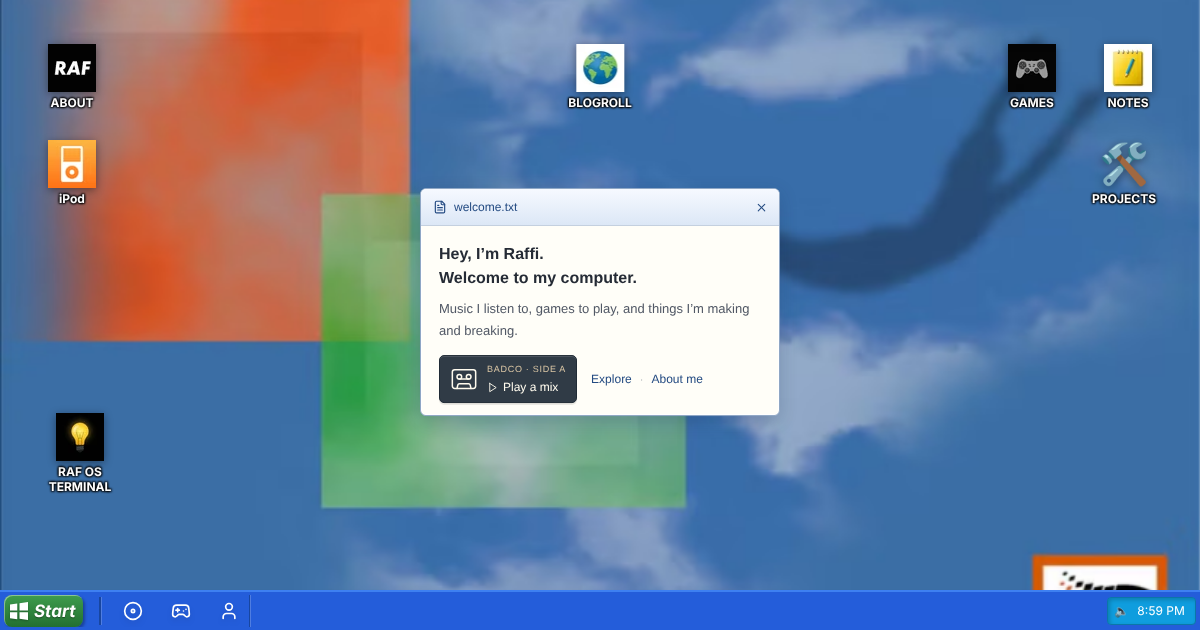
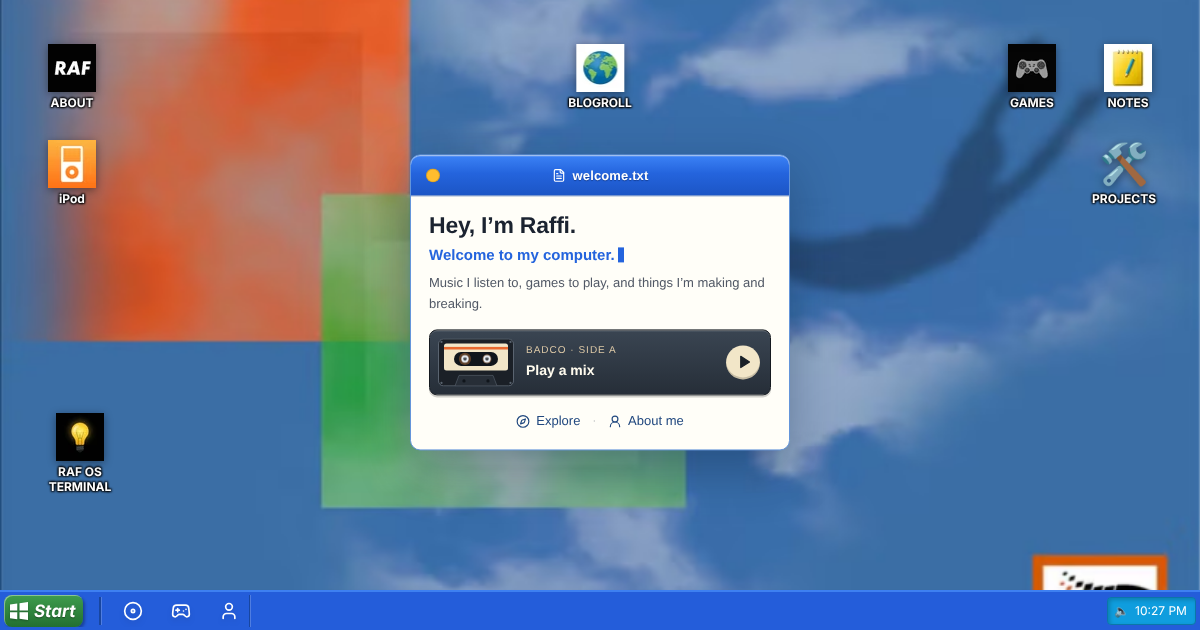
feat(welcome): give welcome.txt the window chrome and a cassette deck
The welcome card now wears the same blue title bar as every window, with a
minimize dot instead of a stray X. The headline is bigger, and a blinking
caret makes it read like a text file being typed.

"Play a mix" is a tape deck: a cassette whose reels turn while the mix plays
and hold their place on pause, the mix title on the label, EQ bars and a round
play key. Explore and About me get icons. Behavior and labels are unchanged.

The card no longer clips its contents, which let phone grids squeeze it below
its content height. Its styles live in globals.css so the caret and a short
fade-in render from the server HTML. Reduced motion turns off every animation.
The share image is recaptured with the new card.

Claude-Session: https://claude.ai/code/session_01HYFazgkSXwz7K7CUcafqJo

Changed region(s): [[0.3392, 0.2413, 0.6783, 0.754], [0.9558, 0.9651, 0.9867, 0.9952]]

diff --git a/app/components/DesktopWelcome.tsx b/app/components/DesktopWelcome.tsx
@@ -1,7 +1,7 @@
 "use client"
 
 import { useRef } from "react"
-import { CassetteTape, FileText, LoaderCircle, Pause, Play, X } from "lucide-react"
+import { Compass, FileText, LoaderCircle, Minus, Pause, Play, UserRound } from "lucide-react"
 import { BADCOMPANY_MIXES } from "@/data/audio-library"
 import { useAudio } from "../context/AudioContext"
 
@@ -12,11 +12,49 @@ interface DesktopWelcomeProps {
   onExplore: () => void
 }
 
+// The same blue as every window's title bar, so the welcome reads as part of the OS.
+const TITLE_BAR = "linear-gradient(180deg, #3b82f6 0%, #2464dd 45%, #1c55c5 100%)"
+
+/** A cassette whose reels turn while the mix plays and stop where they are when it pauses. */
+function Cassette() {
+  const reel = (cx: number) => (
+    <g className="welcome-reel">
+      <circle cx={cx} cy={20.5} r={3.7} fill="#e9edf2" />
+      <circle cx={cx} cy={20.5} r={1.7} fill="#10151b" />
+      {[0, 120, 240].map((angle) => (
+        <rect key={angle} x={cx - 0.45} y={18.7} width={0.9} height={1.2} fill="#e9edf2" transform={`rotate(${angle} ${cx} 20.5)`} />
+      ))}
+    </g>
+  )
+  return (
+    <svg width={76} height={48} viewBox="0 0 76 48" aria-hidden="true" style={{ flexShrink: 0, display: "block" }}>
+      <rect x={0.5} y={0.5} width={75} height={47} rx={5} fill="#1b2027" stroke="#5a6470" />
+      {[[3.5, 3.5], [72.5, 3.5], [3.5, 44.5], [72.5, 44.5]].map(([x, y]) => (
+        <circle key={`${x}-${y}`} cx={x} cy={y} r={1.1} fill="#5a6470" />
+      ))}
+      <rect x={6} y={5} width={64} height={27} rx={2.5} fill="#f2e6c8" />
+      <rect x={6} y={8.5} width={64} height={2.6} fill="#e8692f" />
+      <rect x={16} y={13.5} width={44} height={14} rx={7} fill="#10151b" />
+      {/* More tape on the left spool: side A is at the start. */}
+      <circle cx={27} cy={20.5} r={6.1} fill="#5c3e27" />
+      <circle cx={49} cy={20.5} r={4.6} fill="#5c3e27" />
+      {reel(27)}
+      {reel(49)}
+      <path d="M17 47.5 L21 37 H55 L59 47.5 Z" fill="#272e37" stroke="#5a6470" strokeWidth={0.6} />
+      <circle cx={26} cy={42.5} r={1.6} fill="#10151b" />
+      <circle cx={50} cy={42.5} r={1.6} fill="#10151b" />
+    </svg>
+  )
+}
+
 export default function DesktopWelcome({ collapsed, onCollapsedChange: setCollapsed, onAbout, onExplore }: DesktopWelcomeProps) {
   const titleRef = useRef<HTMLButtonElement>(null)
   const { currentTrack, isPlaying, isLoading, needsTap, error, setPlaylist, playTrack, togglePlay } = useAudio()
   const mixSelected = Boolean(currentTrack && BADCOMPANY_MIXES.some((mix) => mix.id === currentTrack.id))
   const playingMix = mixSelected && isPlaying
+  const loading = mixSelected && isLoading && !needsTap
+  const deck = mixSelected && error ? "error" : loading ? "loading" : playingMix && !needsTap ? "playing" : "idle"
+  const label = mixSelected && error ? "Try again" : mixSelected && needsTap ? "Tap to play" : loading ? "Tuning in…" : playingMix ? "Pause mix" : mixSelected ? "Resume mix" : "Play a mix"
 
   const playMix = () => {
     if (mixSelected) {
@@ -28,16 +66,21 @@ export default function DesktopWelcome({ collapsed, onCollapsedChange: setCollap
     playTrack(BADCOMPANY_MIXES[0])
   }
 
-  const actionStyle = {
+  const linkStyle = {
+    display: "inline-flex",
+    alignItems: "center",
+    gap: 6,
     minHeight: 44,
     border: 0,
-    padding: "0 8px",
+    padding: "0 10px",
     background: "transparent",
-    color: "#244b82",
+    color: "#21487f",
     cursor: "pointer",
-    fontSize: 12,
+    fontSize: 13,
+    fontFamily: "inherit",
   } as const
-  const focusClass = "hover:underline focus-visible:outline focus-visible:outline-2 focus-visible:outline-offset-2 focus-visible:outline-blue-700"
+  const linkClass = "hover:underline focus-visible:outline focus-visible:outline-2 focus-visible:outline-offset-2 focus-visible:outline-blue-700"
+  const chromeFocus = "focus-visible:outline focus-visible:outline-2 focus-visible:-outline-offset-2 focus-visible:outline-white"
 
   return (
     <section
@@ -46,69 +89,150 @@ export default function DesktopWelcome({ collapsed, onCollapsedChange: setCollap
       data-collapsed={collapsed}
       aria-label="Welcome to Raffi’s computer"
       style={{
-        border: "1px solid #8fa7c5",
-        borderRadius: 6,
+        border: "1px solid #6495da",
+        borderRadius: 10,
         background: "#fffef8",
         color: "#252b35",
-        boxShadow: "0 5px 18px #122c4e30, inset 0 0 0 1px #ffffff",
+        boxShadow: "0 18px 50px rgba(12, 32, 64, 0.36)",
         fontFamily: "Tahoma, Verdana, sans-serif",
       }}
     >
-      <div style={{ display: "flex", alignItems: "center", borderRadius: "5px 5px 0 0", background: "linear-gradient(#f6f9ff, #dce7f6)", borderBottom: collapsed ? 0 : "1px solid #c1cddd" }}>
+      <div
+        style={{
+          display: "flex",
+          alignItems: "center",
+          minHeight: 40,
+          // Rounded here rather than clipping the card: a clipped grid item may shrink below its content on phones.
+          borderRadius: collapsed ? 9 : "9px 9px 0 0",
+          background: TITLE_BAR,
+          color: "white",
+          borderBottom: collapsed ? 0 : "1px solid #17449f",
+          boxShadow: "inset 0 1px 0 rgba(255, 255, 255, 0.28)",
+        }}
+      >
+        {!collapsed && (
+          <button
+            type="button"
+            aria-label="Minimize welcome"
+            title="Minimize"
+            onClick={() => { setCollapsed(true); titleRef.current?.focus() }}
+            className={`group ${chromeFocus}`}
+            style={{ width: 44, height: 40, flexShrink: 0, display: "grid", placeItems: "center", border: 0, padding: 0, background: "transparent", cursor: "pointer" }}
+          >
+            <span style={{ width: 14, height: 14, borderRadius: "50%", display: "grid", placeItems: "center", background: "#ffbd2e", border: "1px solid rgba(0, 0, 0, 0.15)", color: "#142017" }}>
+              <Minus size={10} strokeWidth={2.5} aria-hidden="true" className="opacity-70 sm:opacity-0 group-hover:opacity-80 group-focus-visible:opacity-80" />
+            </span>
+          </button>
+        )}
         <button
           ref={titleRef}
           type="button"
           aria-expanded={!collapsed}
           aria-controls="desktop-welcome-content"
           onClick={() => setCollapsed(!collapsed)}
-          className={focusClass}
-          style={{ ...actionStyle, flex: 1, display: "flex", alignItems: "center", gap: 7, padding: "0 12px", textAlign: "left", minHeight: 36 }}
+          className={chromeFocus}
+          style={{
+            flex: 1,
+            minWidth: 0,
+            minHeight: 40,
+            display: "flex",
+            alignItems: "center",
+            justifyContent: "center",
+            gap: 7,
+            padding: collapsed ? "0 14px" : 0,
+            border: 0,
+            background: "transparent",
+            color: "white",
+            cursor: "pointer",
+            fontFamily: "inherit",
+            fontSize: 13,
+            fontWeight: 700,
+            letterSpacing: ".01em",
+            textShadow: "0 1px 1px rgba(10, 30, 80, 0.45)",
+          }}
         >
           <FileText size={14} aria-hidden="true" />
           welcome.txt
-          {collapsed && <span style={{ marginLeft: "auto", color: "#52657e", fontSize: 10 }}>open</span>}
+          {collapsed && <span style={{ marginLeft: "auto", color: "#d5e4ff", fontSize: 11, fontWeight: 400 }}>open</span>}
         </button>
-        {!collapsed && (
-          <button
-            type="button"
-            aria-label="Minimize welcome"
-            onClick={() => { setCollapsed(true); titleRef.current?.focus() }}
-            className="hover:bg-white/60 focus-visible:outline focus-visible:outline-2 focus-visible:outline-blue-700"
-            style={{ ...actionStyle, minHeight: 36, width: 36, display: "grid", placeItems: "center" }}
-          >
-            <X size={13} aria-hidden="true" />
-          </button>
-        )}
+        {!collapsed && <span aria-hidden="true" style={{ width: 44, flexShrink: 0 }} />}
       </div>
-      <div id="desktop-welcome-content" hidden={collapsed} style={{ padding: "16px 18px 12px" }}>
-        <h1 style={{ fontSize: 16, fontWeight: 700, lineHeight: 1.5, margin: "0 0 8px" }}>Hey, I’m Raffi.<br />Welcome to my computer.</h1>
-        <p style={{ fontSize: 13, lineHeight: 1.65, color: "#515865", margin: "0 0 14px" }}>
+
+      <div id="desktop-welcome-content" hidden={collapsed} style={{ padding: "16px 18px 6px" }}>
+        <h1 style={{ margin: 0, color: "#1b2330" }}>
+          <span style={{ display: "block", fontSize: 23, fontWeight: 800, lineHeight: 1.2, letterSpacing: "-0.01em" }}>Hey, I’m Raffi.</span>{" "}
+          <span style={{ display: "block", marginTop: 4, fontSize: 15, fontWeight: 700, lineHeight: 1.4, color: "#2464dd" }}>
+            Welcome to my computer.
+            <span className="welcome-caret" aria-hidden="true" />
+          </span>
+        </h1>
+        <p style={{ fontSize: 13, lineHeight: 1.6, color: "#515865", margin: "8px 0 14px" }}>
           Music I listen to, games to play, and things I’m making and breaking.
         </p>
-        <div style={{ display: "flex", alignItems: "center", flexWrap: "wrap", gap: 3 }}>
-          <button
-            type="button"
-            onClick={playMix}
-            aria-label={mixSelected && error ? "Retry mix" : mixSelected && needsTap ? "Tap to play" : mixSelected && isLoading ? "Tuning in…" : playingMix ? "Pause mix" : mixSelected ? "Resume mix" : "Play a mix"}
-            className="group hover:brightness-110 focus-visible:outline focus-visible:outline-2 focus-visible:outline-offset-2 focus-visible:outline-blue-700"
-            style={{ display: "flex", alignItems: "center", gap: 9, minHeight: 48, padding: "6px 10px", border: "1px solid #202b36", borderRadius: 5, background: "#303b46", color: "#fffbee", cursor: "pointer", marginRight: 3, boxShadow: "inset 0 1px 0 #ffffff25, 0 2px 0 #00000015" }}
-          >
-            <CassetteTape size={28} strokeWidth={1.3} aria-hidden="true" />
-            <span style={{ display: "grid", textAlign: "left", gap: 2 }}>
-              <span style={{ fontSize: 9, letterSpacing: ".08em", color: "#d9c5a4" }}>BADCO · SIDE A</span>
-              <span style={{ display: "flex", gap: 5, alignItems: "center", fontSize: 12 }}>
-                {mixSelected && isLoading && !needsTap ? <LoaderCircle size={11} className="motion-safe:animate-spin" aria-hidden="true" /> : playingMix && !needsTap ? <Pause size={11} aria-hidden="true" /> : <Play size={11} aria-hidden="true" />}
-                {mixSelected && error ? "Try again" : mixSelected && needsTap ? "Tap to play" : mixSelected && isLoading ? "Tuning in…" : playingMix ? "Pause mix" : mixSelected ? "Resume mix" : "Play a mix"}
+
+        <button
+          type="button"
+          onClick={playMix}
+          data-deck={deck}
+          aria-label={mixSelected && error ? "Retry mix" : label}
+          className="welcome-deck focus-visible:outline focus-visible:outline-2 focus-visible:outline-offset-2 focus-visible:outline-blue-700"
+          style={{
+            width: "100%",
+            minHeight: 64,
+            display: "flex",
+            alignItems: "center",
+            gap: 12,
+            padding: "8px 10px 8px 8px",
+            border: "1px solid #151a20",
+            borderRadius: 8,
+            background: "linear-gradient(180deg, #3a4552 0%, #262e38 100%)",
+            color: "#fffbee",
+            cursor: "pointer",
+            textAlign: "left",
+            fontFamily: "inherit",
+            boxShadow: "inset 0 1px 0 rgba(255, 255, 255, 0.14), 0 2px 0 rgba(0, 0, 0, 0.18)",
+          }}
+        >
+          <Cassette />
+          <span style={{ flex: 1, minWidth: 0, display: "grid", gap: 3 }}>
+            <span style={{ display: "flex", alignItems: "center", gap: 6, minWidth: 0, fontSize: 10, letterSpacing: ".1em", textTransform: "uppercase", color: "#dcc8a6" }}>
+              <span style={{ overflow: "hidden", textOverflow: "ellipsis", whiteSpace: "nowrap" }}>
+                {mixSelected && currentTrack ? `SIDE A · ${currentTrack.title}` : "BADCO · SIDE A"}
               </span>
+              {deck === "playing" && (
+                <span className="welcome-eq" aria-hidden="true">
+                  <span /><span /><span /><span />
+                </span>
+              )}
             </span>
-          </button>
-          <span style={{ display: "inline-flex", alignItems: "center", whiteSpace: "nowrap" }}>
-            <button type="button" onClick={() => { setCollapsed(true); onExplore() }} className={focusClass} style={actionStyle}>Explore</button>
-            <span aria-hidden="true" style={{ color: "#a7abb1", fontSize: 11 }}>·</span>
-            <button type="button" onClick={onAbout} className={focusClass} style={actionStyle}>About me</button>
+            <span style={{ fontSize: 14, fontWeight: 700 }}>{label}</span>
           </span>
-        </div>
+          <span
+            aria-hidden="true"
+            style={{ width: 34, height: 34, flexShrink: 0, display: "grid", placeItems: "center", borderRadius: "50%", background: "#f2e6c8", color: "#1b2027", boxShadow: "inset 0 -2px 0 rgba(0, 0, 0, 0.18)" }}
+          >
+            {deck === "loading" ? (
+              <LoaderCircle size={15} className="motion-safe:animate-spin" />
+            ) : deck === "playing" ? (
+              <Pause size={15} fill="currentColor" />
+            ) : (
+              <Play size={15} fill="currentColor" style={{ marginLeft: 2 }} />
+            )}
+          </span>
+        </button>
         {mixSelected && error && <p role="status" style={{ fontSize: 11, lineHeight: 1.5, color: "#92400e", margin: "8px 0 0" }}>The mix didn’t start. Tap to try again.</p>}
+
+        <div style={{ display: "flex", alignItems: "center", justifyContent: "center", gap: 2, marginTop: 4 }}>
+          <button type="button" onClick={() => { setCollapsed(true); onExplore() }} className={linkClass} style={linkStyle}>
+            <Compass size={14} aria-hidden="true" />
+            Explore
+          </button>
+          <span aria-hidden="true" style={{ color: "#a7abb1", fontSize: 11 }}>·</span>
+          <button type="button" onClick={onAbout} className={linkClass} style={linkStyle}>
+            <UserRound size={14} aria-hidden="true" />
+            About me
+          </button>
+        </div>
       </div>
     </section>
   )

diff --git a/app/globals.css b/app/globals.css
@@ -85,6 +85,7 @@
     top: 48%;
     left: 50%;
     transform: translate(-50%, -50%);
+    width: 380px;
     margin: 0;
     z-index: 21;
   }
@@ -640,4 +641,71 @@ html {
 @media (max-height: 540px) {
   .intro-card { padding-top: 12px !important; padding-bottom: 12px !important; }
   .intro-card .intro-card-decor { display: none !important; }
+}
+
+/* Welcome card. Plain CSS so it is in the server HTML: the caret shows from
+   the first paint and the card fades in once, without waiting for hydration. */
+.desktop-welcome {
+  animation: welcome-in 280ms cubic-bezier(0.2, 0.8, 0.2, 1) both;
+}
+.welcome-caret {
+  display: inline-block;
+  width: 0.45em;
+  height: 1em;
+  margin-left: 3px;
+  vertical-align: -0.15em;
+  background: currentColor;
+  animation: welcome-caret 1.1s steps(1) infinite;
+}
+.welcome-deck:hover {
+  filter: brightness(1.1);
+}
+/* Reels turn only while a mix plays, and stop where they are on pause. */
+.welcome-reel {
+  transform-box: fill-box;
+  transform-origin: center;
+  animation: welcome-reel 1.6s linear infinite;
+  animation-play-state: paused;
+}
+.welcome-deck[data-deck="playing"] .welcome-reel {
+  animation-play-state: running;
+}
+.welcome-eq {
+  display: inline-flex;
+  align-items: flex-end;
+  gap: 2px;
+  height: 9px;
+  flex-shrink: 0;
+}
+.welcome-eq span {
+  width: 2px;
+  height: 100%;
+  background: #dcc8a6;
+  transform-origin: bottom;
+  animation: welcome-eq 0.9s ease-in-out infinite;
+}
+.welcome-eq span:nth-child(2) { animation-delay: -0.45s; }
+.welcome-eq span:nth-child(3) { animation-delay: -0.2s; }
+.welcome-eq span:nth-child(4) { animation-delay: -0.65s; }
+/* `translate` composes with the centering transform on desktop. */
+@keyframes welcome-in {
+  from { opacity: 0; translate: 0 8px; }
+}
+@keyframes welcome-caret {
+  50% { opacity: 0; }
+}
+@keyframes welcome-reel {
+  to { transform: rotate(360deg); }
+}
+@keyframes welcome-eq {
+  0%, 100% { transform: scaleY(0.3); }
+  50% { transform: scaleY(1); }
+}
+@media (prefers-reduced-motion: reduce) {
+  .desktop-welcome,
+  .welcome-caret,
+  .welcome-reel,
+  .welcome-eq span {
+    animation: none;
+  }
 }
